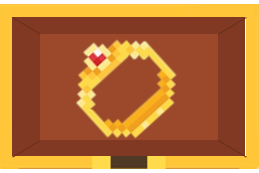
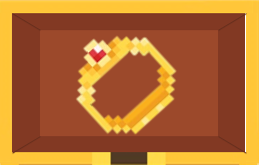
Added the Card-Images and changed the cursor in Controller

diff --git a/src/main/java/de/uni_passau/se/memory/gui/Controller.java b/src/main/java/de/uni_passau/se/memory/gui/Controller.java
@@ -15,9 +15,12 @@ import javafx.css.Stylesheet;
 import javafx.event.ActionEvent;
 import javafx.event.EventHandler;
 import javafx.fxml.Initializable;
+import javafx.scene.Cursor;
+import javafx.scene.ImageCursor;
 import javafx.scene.Node;
 import javafx.scene.control.Button;
 import javafx.scene.control.Dialog;
+import javafx.scene.image.Image;
 import javafx.scene.layout.AnchorPane;
 import javafx.scene.layout.BorderPane;
 import javafx.scene.layout.HBox;
@@ -668,6 +671,8 @@ public HBox D;
         String css = this.getClass().getResource("Style.css").toExternalForm();
         button.getStylesheets().add(css);
         button.getStyleClass().add("Card");
+        Image image = new Image(this.getClass().getResource("Images/Cursor.png").toExternalForm());
+        button.setCursor(new ImageCursor(image));
         button.setId(id);
         button.setOnAction(new EventHandler<ActionEvent>() {
             @Override
